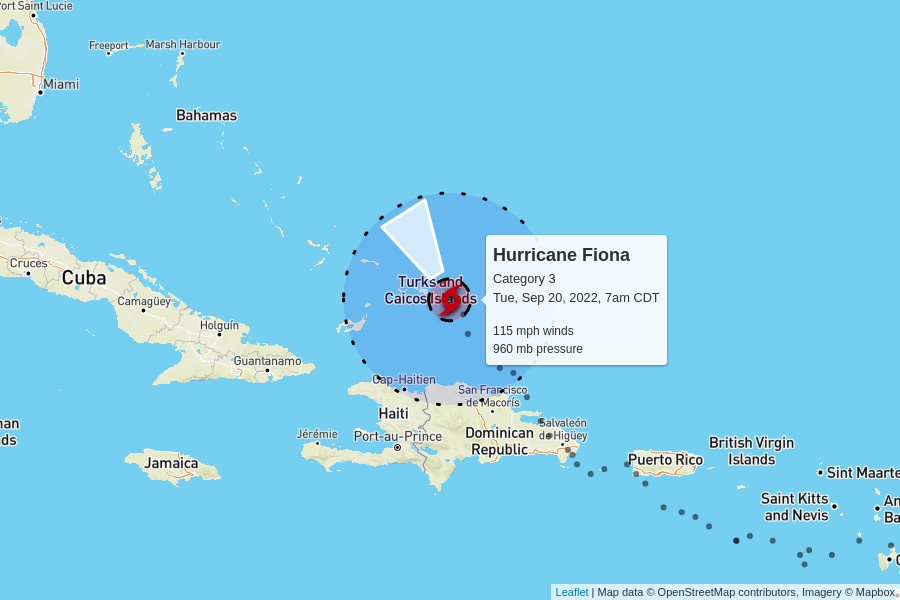
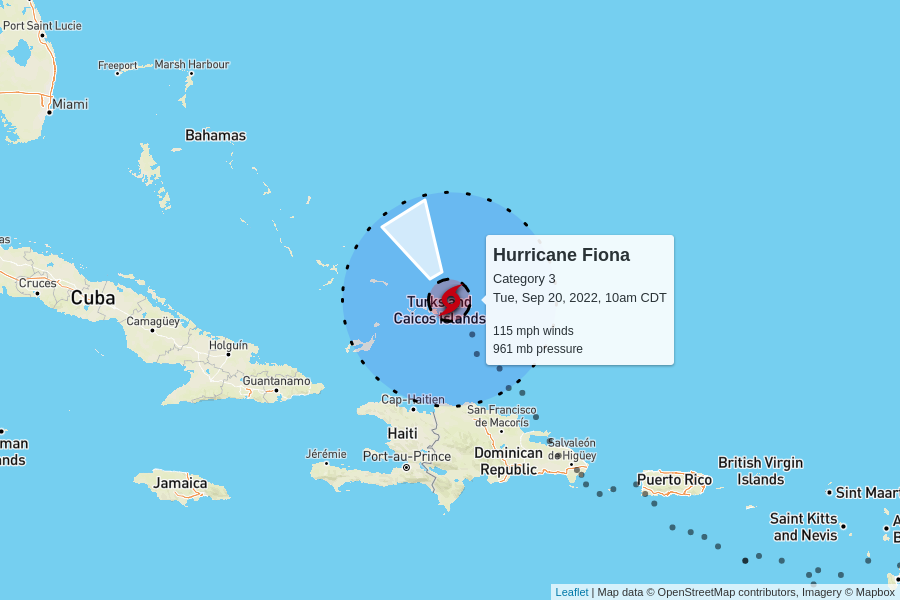
automatic update

diff --git a/docs/index.html b/docs/index.html
@@ -100,7 +100,7 @@
         <td colspan="6" class="storm category-3" >
           <h2>
             Hurricane Fiona - Category 3
-            <p class="updated">last updated <span data-time>2022-09-20T12:00:00.000Z</span></p>
+            <p class="updated">last updated <span data-time>2022-09-20T15:00:00.000Z</span></p>
           </h2>
         </td>
       </tr>
@@ -116,9 +116,9 @@
       <tr>
         <td class="spacer"></td>
         <td>115 mph</td>
-        <td>960 mb</td>
+        <td>961 mb</td>
         <td>
-          10 mph to the north-northwest
+          9 mph to the north-northwest
           <br/>
           <span style="display: inline-block; font-size: 1.5em; transform: rotate(330deg);">↑</span>
         </td>
@@ -130,6 +130,50 @@
         <td colspan="5">
           <figure>
             <img src="AL072022.png">
+            <figcaption>
+              Map data &copy; <a href="https://www.openstreetmap.org/copyright">OpenStreetMap</a> contributors,
+              Imagery &copy; <a href="https://www.mapbox.com/">Mapbox</a> |
+              <a href="https://www.mapbox.com/map-feedback/" target="_blank">Improve this map</a>
+            </figcaption>
+          </figure>
+        </td>
+      </tr>
+      
+
+      <tr>
+        <td colspan="6" class="storm category-0" >
+          <h2>
+            Tropical Depression Eight
+            <p class="updated">last updated <span data-time>2022-09-20T15:00:00.000Z</span></p>
+          </h2>
+        </td>
+      </tr>
+      
+      <tr>
+        <th class="spacer"></th>
+        <th>wind speed</th>
+        <th>central pressure</th>
+        <th>movement</th>
+        <th>data (CSV)</th>
+        <th>National Hurricane Center</th>
+      </tr>
+      <tr>
+        <td class="spacer"></td>
+        <td>35 mph</td>
+        <td>1013 mb</td>
+        <td>
+          10 mph to the north
+          <br/>
+          <span style="display: inline-block; font-size: 1.5em; transform: rotate(5deg);">↑</span>
+        </td>
+        <td><a href="https://raw.githubusercontent.com/mgwalker/atlantic-hurricanes/main/data/csv/AL082022.csv">AL082022.csv</a></td>
+        <td><a href="https://www.nhc.noaa.gov/archive/2022/EIGHT.shtml?">NHC advisories</a></td>
+      </tr>
+      <tr id="storm_AL082022" >
+        <td class="spacer">
+        <td colspan="5">
+          <figure>
+            <img src="AL082022.png">
             <figcaption>
               Map data &copy; <a href="https://www.openstreetmap.org/copyright">OpenStreetMap</a> contributors,
               Imagery &copy; <a href="https://www.mapbox.com/">Mapbox</a> |
